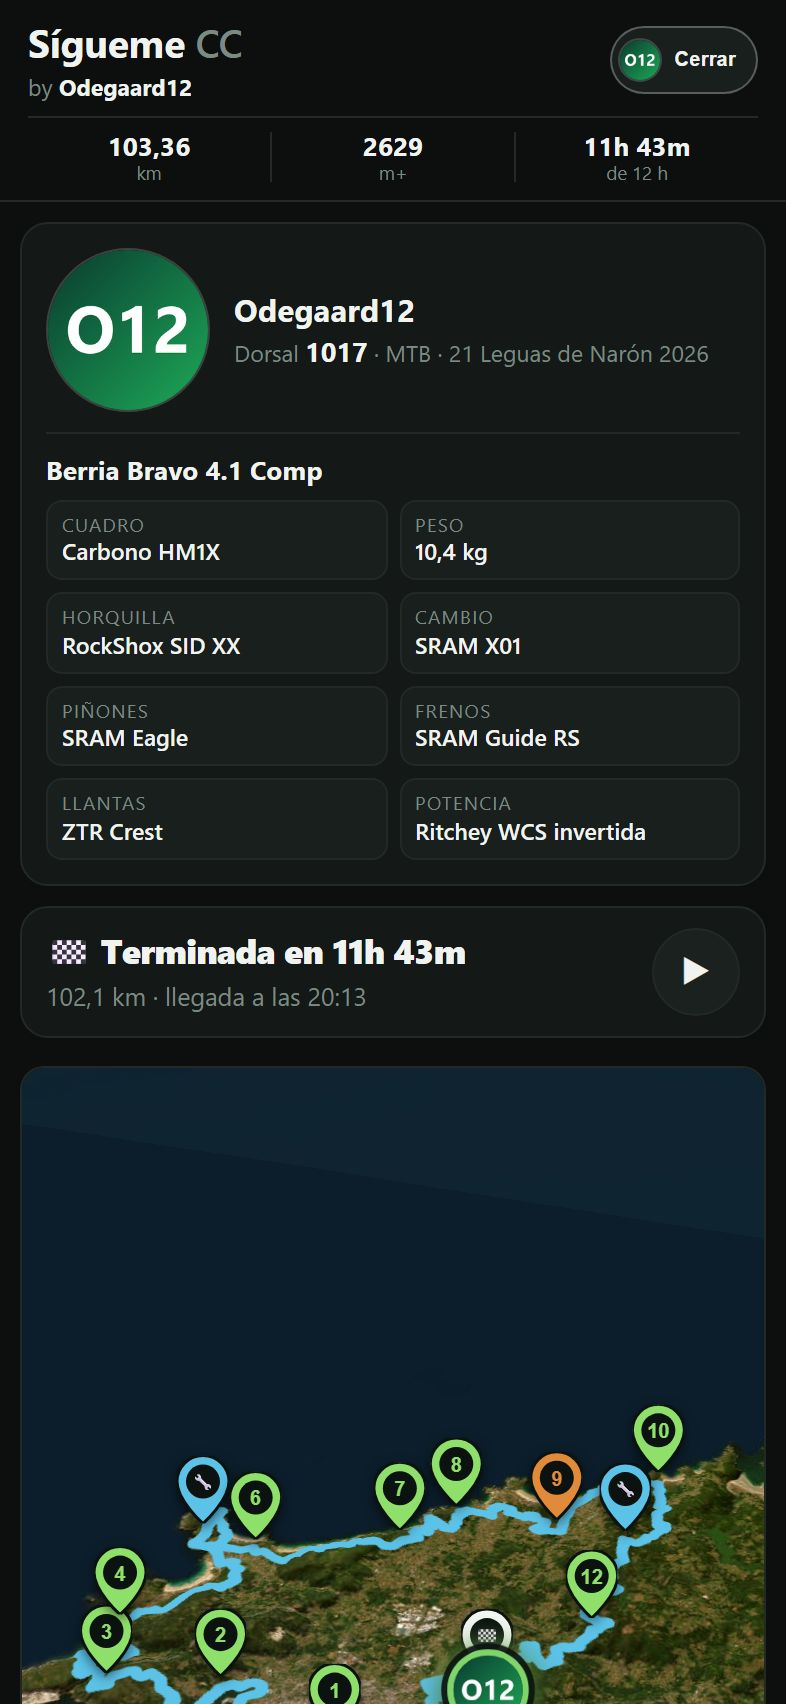
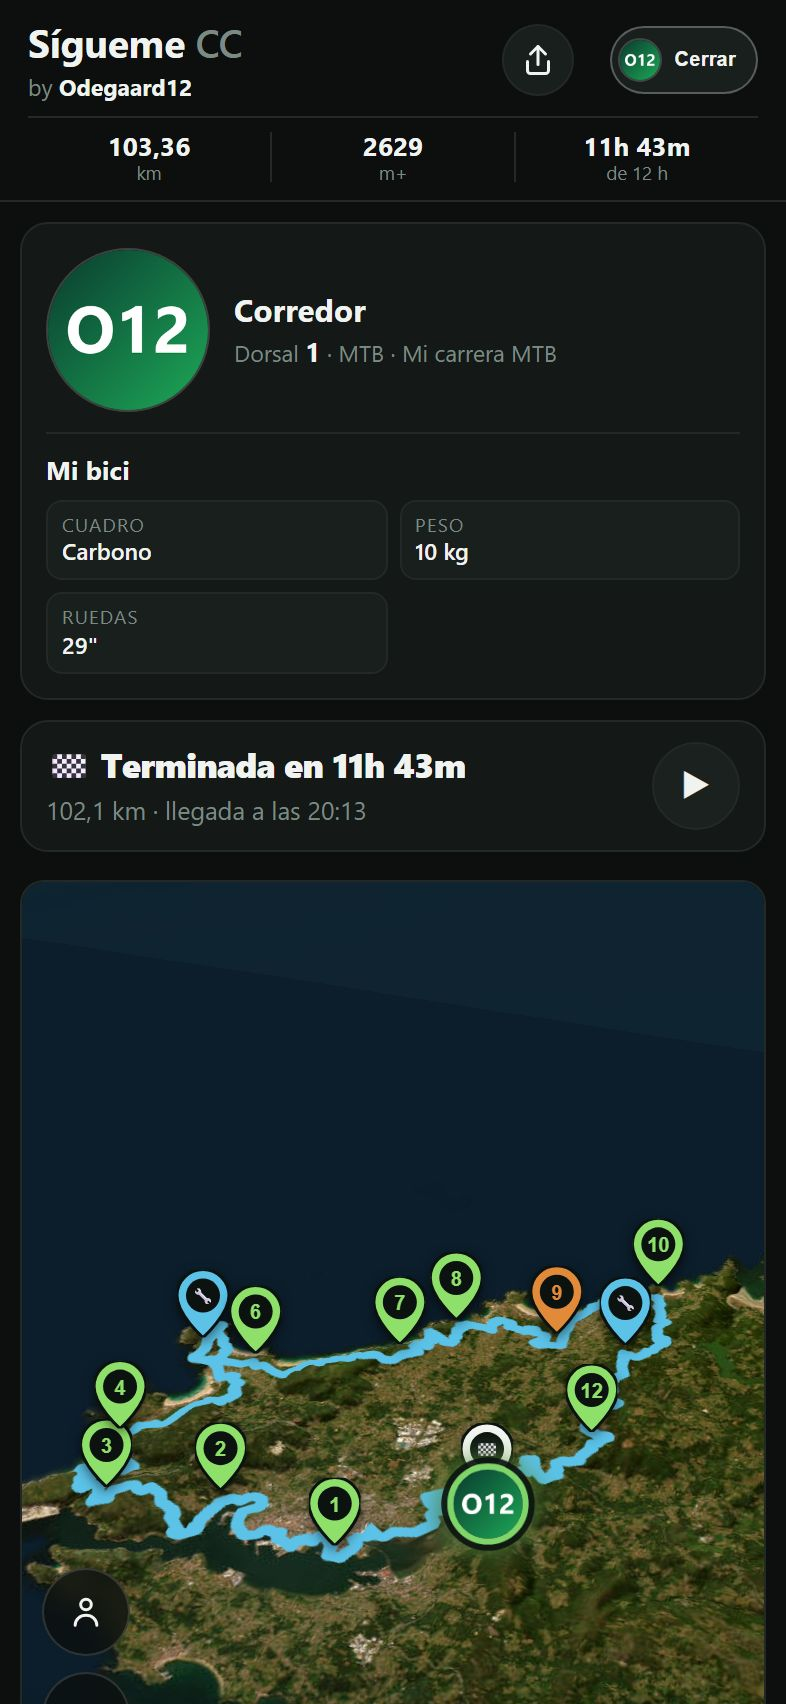
v1.3.1 · Capturas del README con la carrera de ejemplo

diff --git a/README.md b/README.md
@@ -11,7 +11,7 @@
 </p>
 
 <p align="center">
-  <img alt="versión" src="https://img.shields.io/badge/versión-v1.3.0-1f8a4c">
+  <img alt="versión" src="https://img.shields.io/badge/versión-v1.3.1-1f8a4c">
   <img alt="Python" src="https://img.shields.io/badge/servidor-Python%203%20·%20stdlib-3776ab">
   <img alt="MapLibre" src="https://img.shields.io/badge/mapa-MapLibre%204.7-396cb2">
   <img alt="Zepp OS" src="https://img.shields.io/badge/reloj-Zepp%20OS%203-ff6a00">

diff --git a/CHANGELOG.md b/CHANGELOG.md
@@ -4,6 +4,9 @@ Versiones con [SemVer](https://semver.org/lang/es/): la última cifra para
 arreglos, la del medio para funciones nuevas. Cada una tiene su etiqueta y su
 release en GitHub.
 
+## v1.3.1 · 2026-10-09
+- Capturas del README con la carrera de ejemplo.
+
 ## v1.3.0 · 2026-10-09
 - **Para cualquier carrera:** nombre, fecha, hora de salida, distancia, límite,
   km mínimos para meta, corredor y bici salen de `carrera.json`; el código no
